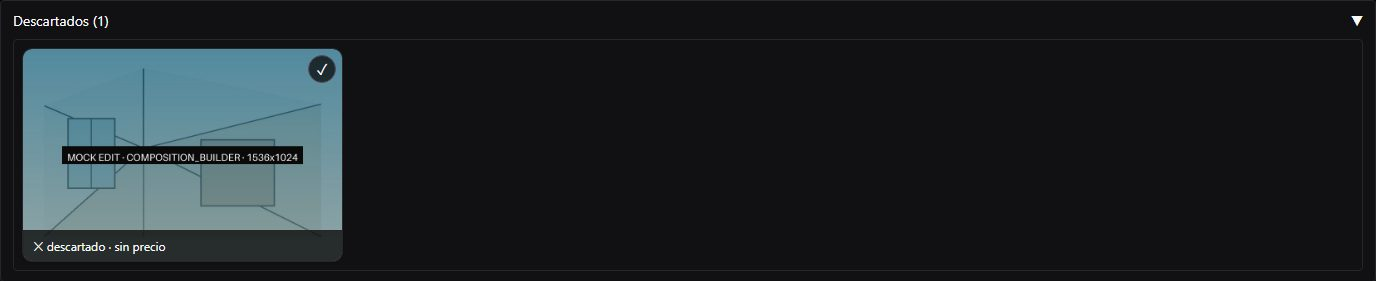
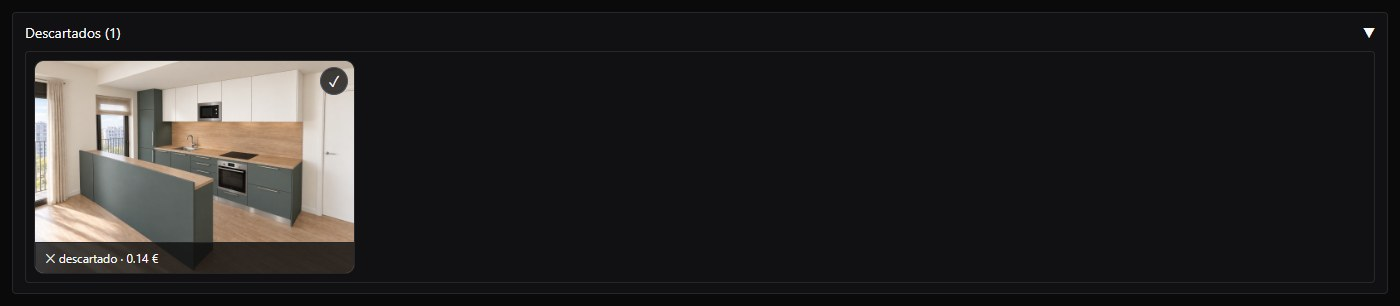
fix: paso 52 - capturas del manual con los proyectos reales
Las capturas se habían tomado con un proyecto generado en modo
simulación: el manual mostraba cajas de colores y la palabra «mock»
donde antes había cocinas fotorrealistas. La instrucción de «no usar los
proyectos reales» era innecesaria; lo que se enseña son interiores.

Rehechas siete con los proyectos del volumen, sin generar nada: la
galería de Proyectos con la portada del activo («Cocina Abierta para
Manual de Usuario», doce proyectos a la vista), el formulario de
Composición con las cuatro casillas del esquema 3D, las tres
comparativas con su medida bajo la casilla y los dos desplegables de
descartados.

Revertidas las otras ocho, que no necesitaban cambio, y quitados del
manual los avisos que explicaban que las capturas eran sintéticas.

diff --git a/docs/pasos/paso-52-pruebas-capturas-proteccion.md b/docs/pasos/paso-52-pruebas-capturas-proteccion.md
@@ -12,13 +12,15 @@ Cerrar cuatro pendientes de calidad y seguridad:
   aunque midan menos de 1 MB.
 - Corregir la coma de B-116 y cerrar la documentación del Paso 51, ya mergeado.
 
-Todo se realiza en modo `mock`, con un proyecto sintético sin dirección ni datos reales. Coste: 0 €.
+Todo se realiza en modo `mock`, sobre los proyectos que ya existen en el volumen: no se genera
+ninguna imagen nueva, solo se navega y se fotografía lo que ya hay. Coste: 0 €.
 
 ## 2. Decisiones
 
 | Tema | Decisión |
 |------|----------|
-| Proyecto para capturas y E2E | Datos geométricos dibujados para la prueba; nombre «Estudio de muestra» y sin dirección |
+| Proyecto de las capturas | Los reales del volumen: «Cocina Abierta para Manual de Usuario» para la galería de Proyectos y «Diverso Getafe 3 5B Cocina y Desayunero» para el esquema 3D y los descartes. El manual enseña interiores de verdad, no imágenes de relleno |
+| Proyecto de la prueba E2E | Esquema sintético dibujado en la propia prueba: no depende de los datos del usuario |
 | Capturas del manual | Guardarlas en `docs/manual/img/`, en JPG y por debajo de 1 MB |
 | Imágenes sueltas en la raíz | Ignorarlas en Git y bloquearlas en pre-commit, también si pesan menos de 1 MB |
 | IA | Solo `AI_PROVIDER_MODE=mock`; ninguna llamada real |
@@ -44,7 +46,7 @@ Todo se realiza en modo `mock`, con un proyecto sintético sin dirección ni dat
 | Ruff | ✅ `uv run ruff check .` y `uv run ruff format --check .` |
 | `uv run --group docs mkdocs build --strict` | ✅ Construcción correcta, sin enlaces de imagen rotos |
 | pre-commit | ✅ Todos los hooks pasan; la regla cubre las rutas raíz y Git deja versionables las capturas bajo `docs/manual/img/` |
-| Capturas | ✅ Revisadas visualmente; JPG en `docs/manual/img/`, todas menores de 130 kB y con datos sintéticos |
+| Capturas | ✅ Revisadas una a una; JPG en `docs/manual/img/`, de 27 a 433 kB, con renders reales. Siete rehechas y ocho revertidas a su versión anterior por no necesitar cambio |
 | Coste | ✅ 0 €; la instancia aislada informa `mock` y no recibe credenciales del `.env` |
 | CI de la PR | Pendiente |
 

diff --git a/docs/manual/bocetos.md b/docs/manual/bocetos.md
@@ -50,11 +50,7 @@ indicaciones y la segunda con estas:
 
 ![Indicaciones de la segunda tanda](img/bocetos-indicaciones.jpg)
 
-![Una tanda de cuatro bocetos en la galería](img/bocetos-galeria.jpg)
-
-Esta captura de interfaz usa una tanda y referencias geométricas sintéticas en modo mock; las
-imágenes generadas se identifican con la banda «MOCK». El caso de la guía tiene las dos tandas
-descritas arriba.
+![Las dos tandas en la galería](img/bocetos-galeria.jpg)
 
 ## Elegir un boceto
 

diff --git a/docs/manual/render-final.md b/docs/manual/render-final.md
@@ -112,10 +112,6 @@ descartado:
 
 ![Galería de renders finales](img/render-galeria.jpg)
 
-La captura de la interfaz se tomó con el proyecto sintético «Estudio de muestra» en modo mock;
-las imágenes de prueba llevan la banda «MOCK». Los resultados de día, atardecer y noche del caso
-se muestran arriba.
-
 Como en las demás etapas, **Seleccionar** elige el render final; en el caso, el de **noche**. Pasa
 a ser la portada del proyecto en la galería de **Proyectos**.
 

diff --git a/docs/manual/composicion.md b/docs/manual/composicion.md
@@ -144,9 +144,6 @@ retoque, porque la IA conoce el **historial** de la imagen de partida:
 
 ![Composición apartada en el desplegable de descartados](img/composicion-descartados.jpg)
 
-La captura de la interfaz se tomó con el proyecto sintético «Estudio de muestra» en modo mock;
-las imágenes de prueba llevan la banda «MOCK».
-
 Esta es la composición seleccionada para el render final. Su cadena (recetas, boceto, auditoría,
 composiciones y retoque) costó:
 
